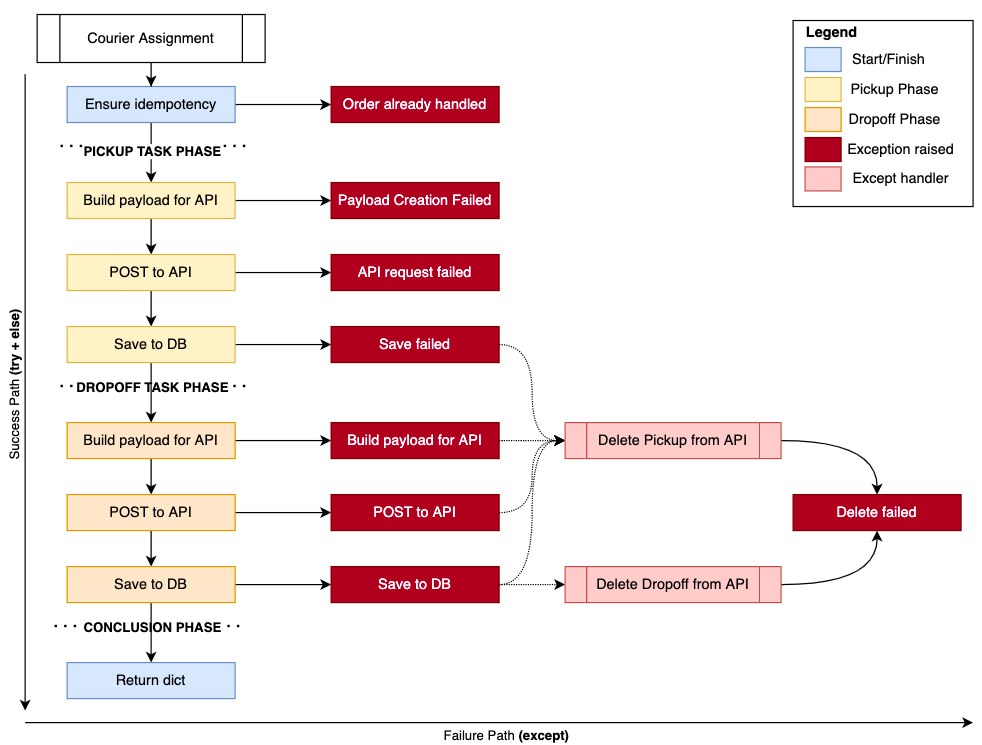
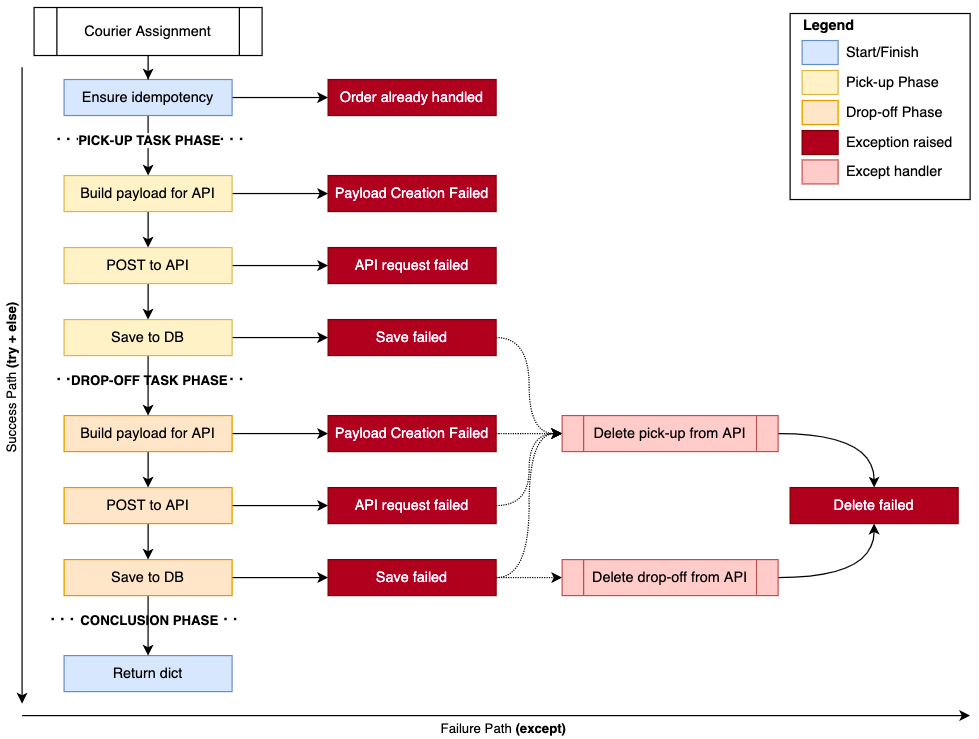
2021(structure-exceptions): revision

diff --git a/posts/2021/2021-07-18-exceptions-structure/post.en-us.md b/posts/2021/2021-07-18-exceptions-structure/post.en-us.md
@@ -10,12 +10,12 @@ You frequently **don't care about precision, but accuracy**. It means that you d
 
 I'll start sharing a real-life example. Let me explain the boring business part quickly: Back when I worked at [Mimic](https://latamlist.com/2019/12/15/brazilian-food-delivery-startup-mimic-receives-9m-seed-round/) we used a third-party API named [Onfleet](https://onfleet.com/) to assign orders to couriers. At that time we decided to break it down into two steps:
 
-1. Create a pick-up task (courier taking the order),
+1. Create a pick-up task (courier takes the order from the restaurant),
 2. Create a drop-off task (courier takes the order to the customer).
 
 Different API calls are made, and the latter depends on the first. Anything might go wrong, and if it does we need to **UNDO** anything we've done previously.
 
-Please note the **straight flow from top to bottom**. That's the success path (`try` and `else` block) that may raise exceptions.
+Please note the **straight flow from top to bottom**. That's the success path (`try` and `else` blocks) that may raise exceptions.
 
 Next, consider the **left to right flow**. That's the exception handling path (`except` blocks) that also can raise exceptions.
 
@@ -64,6 +64,8 @@ We (and you shouldn't either) don't care whether the function failed because of 
 
 Instead, my code must REACT to WHAT happens:
 
+#  FIX PICK UP PICKUP PICK-UP
+
 - If I can't save the pickup task in my database (for any reason), I need to send a `DELETE` request to remove it from the third-party (otherwise they have a task that our microservice doesn't know about);
 - If I can't create the drop off task on their API (for any reason), I need to repeat the same flow above;
 - If I can't save the drop off task in my database (for any reason), I need to repeat the same flow above + send another `DELETE` request to remove the drop off as well;
@@ -102,13 +104,13 @@ class OnfleetService:
 
 Also, they don't even matter. If any of these exceptions are raised, your team needs to investigate it anyway, and I hope they look at the stack trace to find details and figure out root causes.
 
-After all, it's impossible to be prepared for everything. Maybe the database config is wrong, maybe the env variable is not set, etc.
+After all, it's impossible to be prepared for everything. Maybe the database config is wrong, maybe the env variable is not set, you never know!
 
 ## 🏗 When to create?
 
 Given that you understand what an exception is and represents, you might feel like it's simple to create them now.
 
-Sometimes is not that clear though. The [Effective Python book on Chapter 2 Item 14](https://amzn.to/3bEVHpG) ["**Prefer exceptions to returning None**"](https://github.com/SigmaQuan/Better-Python-59-Ways/blob/master/item_14_prefer_exceptions.py) for example.
+Sometimes it's not that clear though. The [Effective Python book on Chapter 2 Item 14](https://amzn.to/3bEVHpG) recommends ["**Prefer exceptions to returning None**"](https://github.com/SigmaQuan/Better-Python-59-Ways/blob/master/item_14_prefer_exceptions.py) for example.
 
 I recommend going beyond that.
 
@@ -203,7 +205,7 @@ class OnfleetTasksException(Exception):
 # Base group category
 class StoreTaskFailed(OnfleetTasksException):
     def __init__(self):
-        message = "Storing task at the database error"  # Defines default message that can be overwritten
+        message = "Storing task into database error"  # Defines default message that can be overwritten
         super().__init__(message)
 
 
@@ -247,7 +249,7 @@ except Exception:
     logger.critical("Something UNEXPECTED happened", exc_info=True)
 ```
 
-In general, an unknown error is very serious and requires an immediate response because it means that for sure your software can't heal itself.
+In general, an unknown error is by default very serious and requires an immediate response because it means that for sure your software can't heal itself.
 
 #### Handle exceptions by category:
 
@@ -290,23 +292,23 @@ Always ask yourself: "If this exception is raised, what do I need to know to kee
 
 ### ↔ Combine exceptions
 
-By having specific exceptions you can also combine them with more thanks to Python's support to multiple inheritance.
+By having specific exceptions you can also combine them with others thanks to Python's support to multiple inheritance.
 
 For example, in [Django](https://github.com/django/django) with [Django Rest Framework](https://www.django-rest-framework.org/), If you wish to raise a specific exception with a custom message, but also trigger a `503` status code you can inherit from [`APIException`](https://www.django-rest-framework.org/api-guide/exceptions/#apiexception):
 
 ```py
-class OnfleetApiFailed(APIException, OnfleetTasksException):  # <-- Inherit from 2 instances, belongs to 2 groups
+class OnfleetApiFailed(APIException, OnfleetTasksException):  # <-- Inherit from 2 classes, belongs to 2 groups
     status_code = 503  # <-- property used by API Exception
     default_detail = 'Onfleet temporarily unavailable, try again later.'  # <-- property used by API Exception
     default_code = 'service_unavailable'  # <-- property used by API Exception
 
     def __init__(self, endpoint, onfleet_response_status_code):
-        ...
+        ...  # <-- My custom implementation
 ```
 
 You keep your original grouping (belongs to your system API exception), and allows the framework (DRF in this case) to handle it.
 
-![Exception different groups](exception-groups.png)
+![Exceptions in multiple groups](exception-groups.png)
 
 You don't need to be restrained by the framework you use. You can create your own set of "Authorization", "UserManualAction", "UserFriendly" exceptions and treat them as such regardless of specific details.
 
@@ -324,7 +326,7 @@ except UserManualAction as error:
 
 ### 📥 Where to place exceptions
 
-Keep exceptions in the same modules that raise them. Often you want to put a "generic group exception" at top-level and more specific ones close to a logical module.
+Keep exceptions in the same modules that raise them. Often you want to put a "generic group exception" at the top-level and more specific ones close to the logical module.
 
 Example:
 
@@ -360,7 +362,7 @@ from api.exceptions import OnfleetApiFailed  # Also clear and expected
 
 [**Django**](https://docs.djangoproject.com/en/3.2/ref/exceptions/) also splits exceptions by "modules":
 
-![django exceptions tree](django-exceptions.png)
+![Django exceptions modules](django-exceptions.png)
 
 Django is very interesting because it allows you to identify a [**specific model** that does not exist](https://docs.djangoproject.com/en/3.2/ref/models/class/#doesnotexist).
 
